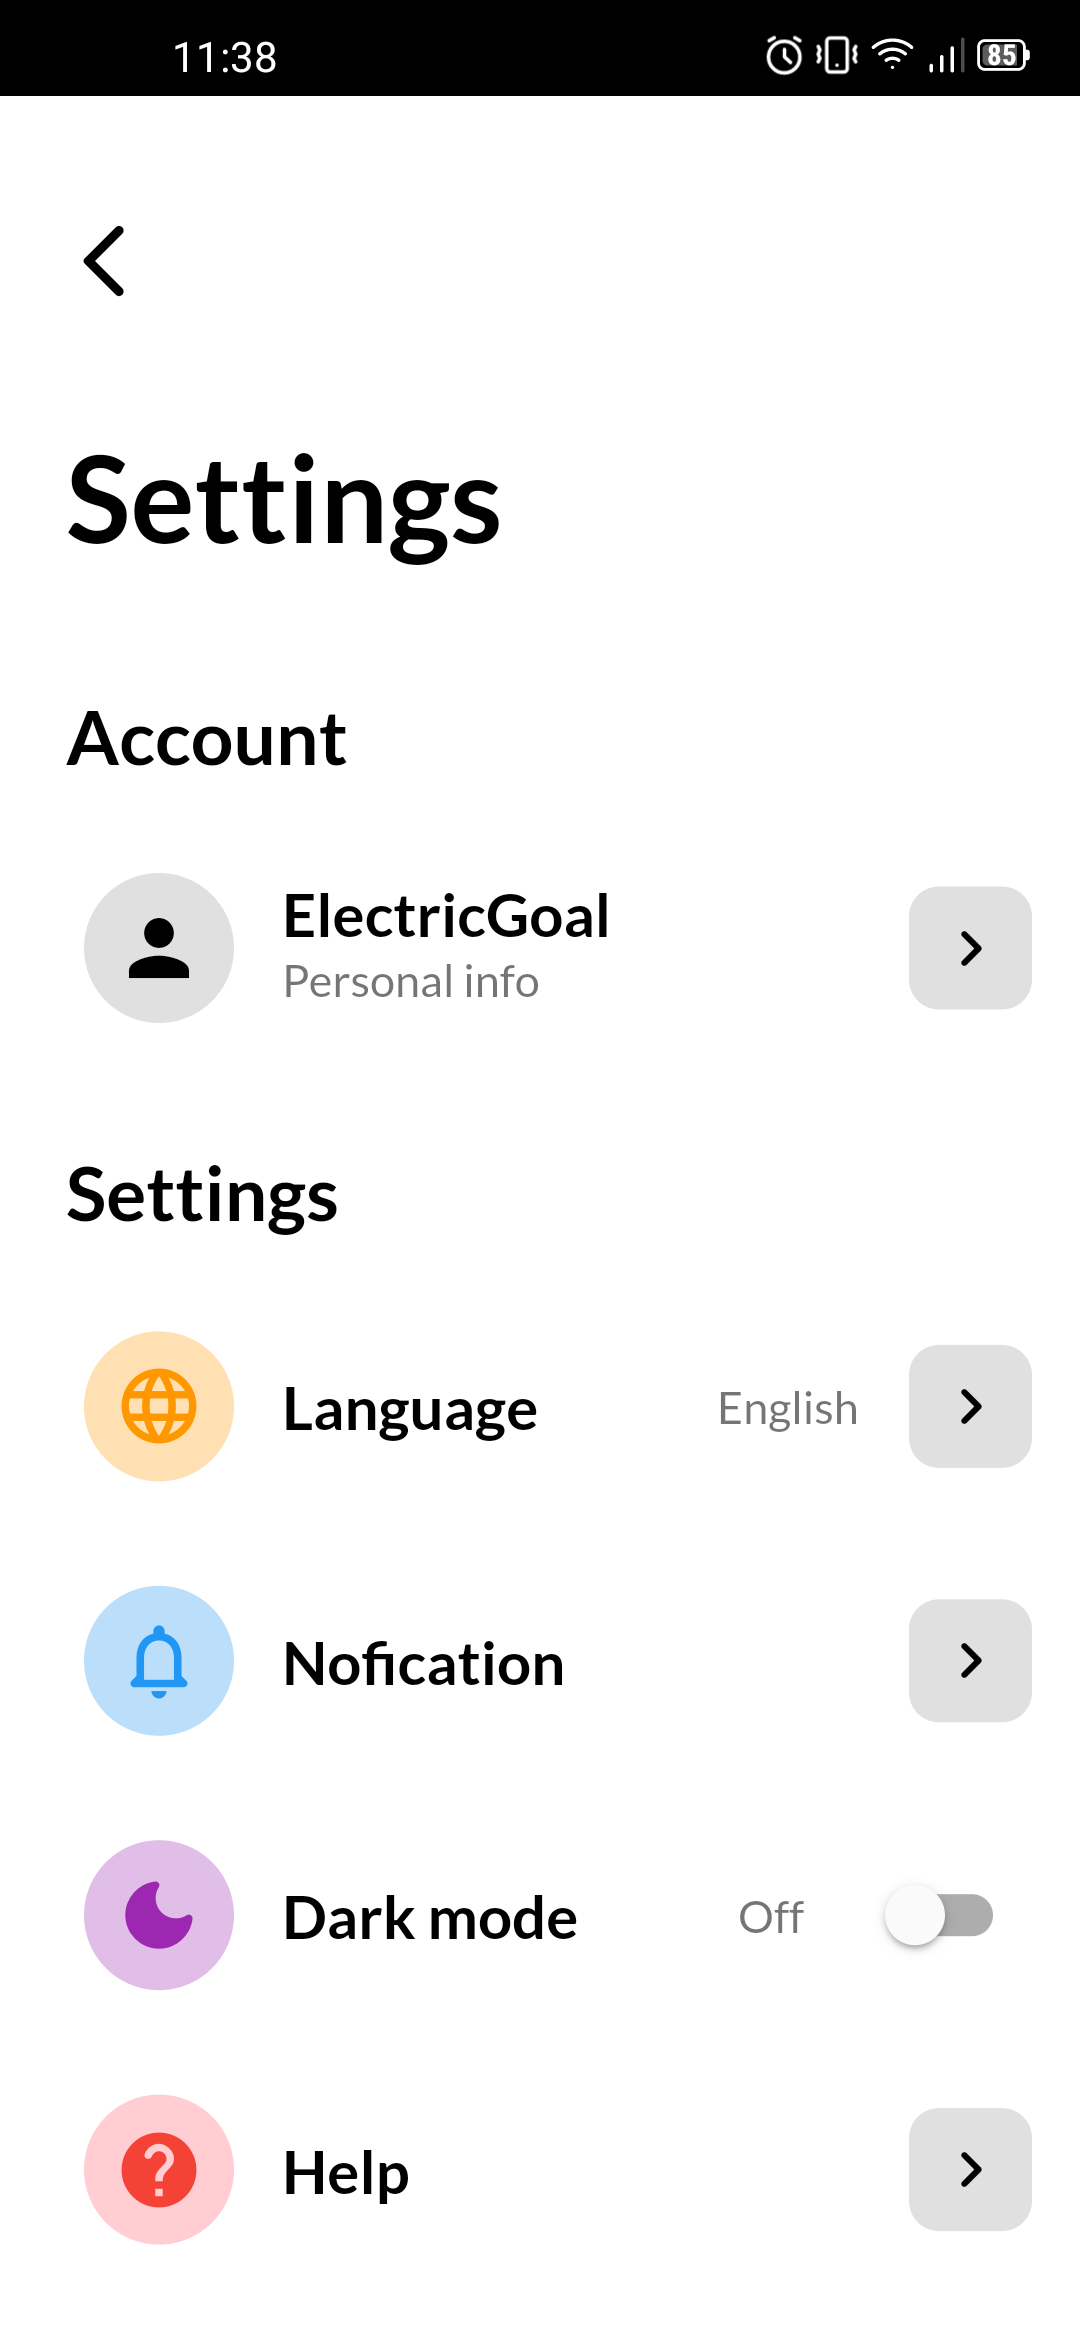
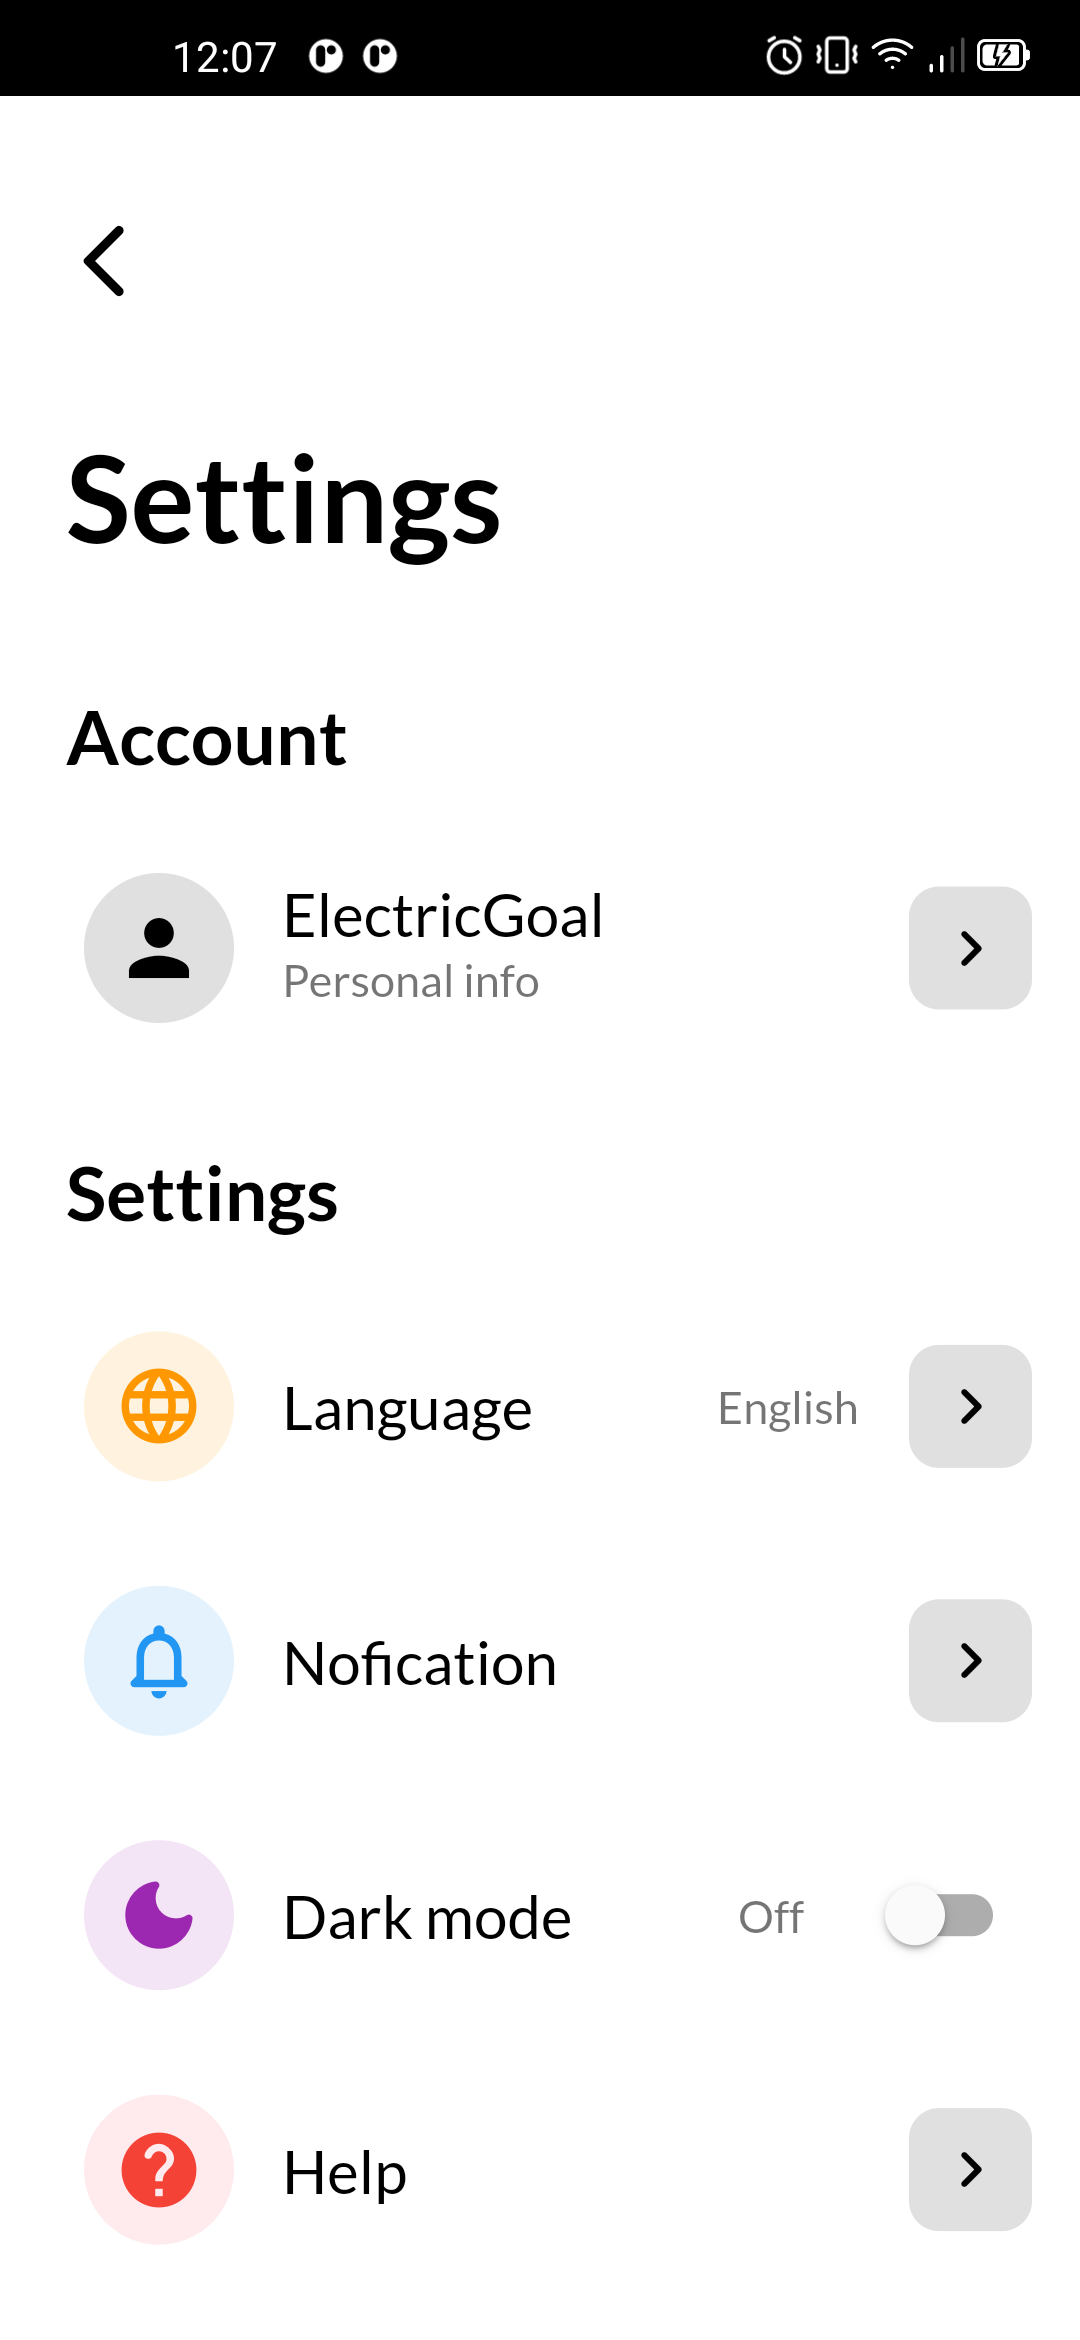
initial code

diff --git a/source/lib/setting_component.dart b/source/lib/setting_component.dart
@@ -2,12 +2,23 @@ import 'package:flutter/material.dart';
 import 'package:google_fonts/google_fonts.dart';
 import 'package:setting_app/account_page.dart';
 
-Widget themeText(String? text, double size) {
+Widget headText(String? text, double size) {
   return Text(
     text!,
     style: GoogleFonts.lato(
       fontSize: size,
       fontWeight: FontWeight.bold,
+      color: Colors.black,
+    ),
+  );
+}
+
+Widget fText(String? text, double size) {
+  return Text(
+    text!,
+    style: GoogleFonts.lato(
+      fontSize: size,
+      fontWeight: FontWeight.normal,
       color: Colors.black,
     ),
   );
@@ -35,7 +46,7 @@ class _AccountState extends State<Account> {
           size: 30,
         ),
       ),
-      title: themeText("ElectricGoal", 20),
+      title: fText("ElectricGoal", 20),
       subtitle: Text(
         "Personal info",
         style: GoogleFonts.lato(
@@ -71,7 +82,7 @@ class Language extends StatelessWidget {
         decoration: BoxDecoration(
           shape: BoxShape.circle,
           //borderRadius: BorderRadius.all(Radius.circular(10)),
-          color: Colors.orange[100],
+          color: Colors.orange[50],
         ),
         child: Icon(
           Icons.language_rounded,
@@ -105,8 +116,7 @@ class DarkMode extends StatelessWidget {
         padding: EdgeInsets.all(10),
         decoration: BoxDecoration(
           shape: BoxShape.circle,
-          //borderRadius: BorderRadius.all(Radius.circular(10)),
-          color: Colors.purple[100],
+          color: Colors.purple[50],
         ),
         child: Icon(
           Icons.dark_mode_rounded,
@@ -133,7 +143,7 @@ class TextBoth extends StatelessWidget {
         Text(title!,
             style: GoogleFonts.lato(
               fontSize: 20,
-              fontWeight: FontWeight.bold,
+              fontWeight: FontWeight.normal,
               color: Colors.black,
             )),
         Text(text!,
@@ -160,7 +170,7 @@ class FListTitle extends StatelessWidget {
         decoration: BoxDecoration(
           shape: BoxShape.circle,
           //borderRadius: BorderRadius.all(Radius.circular(10)),
-          color: color[100],
+          color: color[50],
         ),
         child: Icon(
           icon,
@@ -168,7 +178,7 @@ class FListTitle extends StatelessWidget {
           size: 30,
         ),
       ),
-      title: themeText(text, 20),
+      title: fText(text, 20),
       trailing: Container(
         padding: EdgeInsets.all(8),
         decoration: BoxDecoration(

diff --git a/source/lib/account_page.dart b/source/lib/account_page.dart
@@ -47,7 +47,7 @@ class AccountPage extends StatelessWidget {
             ),
             Container(
                 padding: EdgeInsets.only(left: 22, top: 10),
-                child: themeText("Account", 40)),
+                child: headText("Account", 40)),
             Column(
               mainAxisAlignment: MainAxisAlignment.spaceEvenly,
               children: [
@@ -55,13 +55,13 @@ class AccountPage extends StatelessWidget {
                 RowText(
                   text1: "Name",
                   text2: "ElectricGoal",
-                  size: 25,
+                  size: 22,
                 ),
                 Gender(),
                 RowText(
                   text1: "Age",
                   text2: "18",
-                  size: 30,
+                  size: 22,
                 ),
                 RowText(
                   text1: "Email",

diff --git a/source/lib/setting_home.dart b/source/lib/setting_home.dart
@@ -24,16 +24,16 @@ class HomeSetting extends StatelessWidget {
             ),
             Container(
                 padding: EdgeInsets.only(left: 22, top: 10),
-                child: themeText("Settings", 40)),
+                child: headText("Settings", 40)),
             Container(
               padding: EdgeInsets.only(left: 22, top: 40),
-              child: themeText("Account", 25),
+              child: headText("Account", 25),
             ),
             Container(
                 padding: EdgeInsets.only(left: 12, top: 20), child: Account()),
             Container(
               padding: EdgeInsets.only(left: 22, top: 30),
-              child: themeText("Settings", 25),
+              child: headText("Settings", 25),
             ),
             Expanded(
               child: Padding(

diff --git a/source/lib/account_page_component.dart b/source/lib/account_page_component.dart
@@ -28,7 +28,7 @@ class RowText extends StatelessWidget {
     return Container(
       padding: EdgeInsets.only(left: 22, top: 30),
       child: Row(
-        children: [headline(text1), themeText(text2!, size!)],
+        children: [headline(text1), fText(text2!, size!)],
       ),
     );
   }
@@ -97,11 +97,11 @@ class Gender extends StatelessWidget {
             decoration: BoxDecoration(
               shape: BoxShape.circle,
               //borderRadius: BorderRadius.all(Radius.circular(10)),
-              color: Colors.purple[100],
+              color: Colors.purple[300],
             ),
             child: Icon(
               Icons.male_rounded,
-              color: Colors.purple,
+              color: Colors.white,
               size: 30,
             ),
           ),
